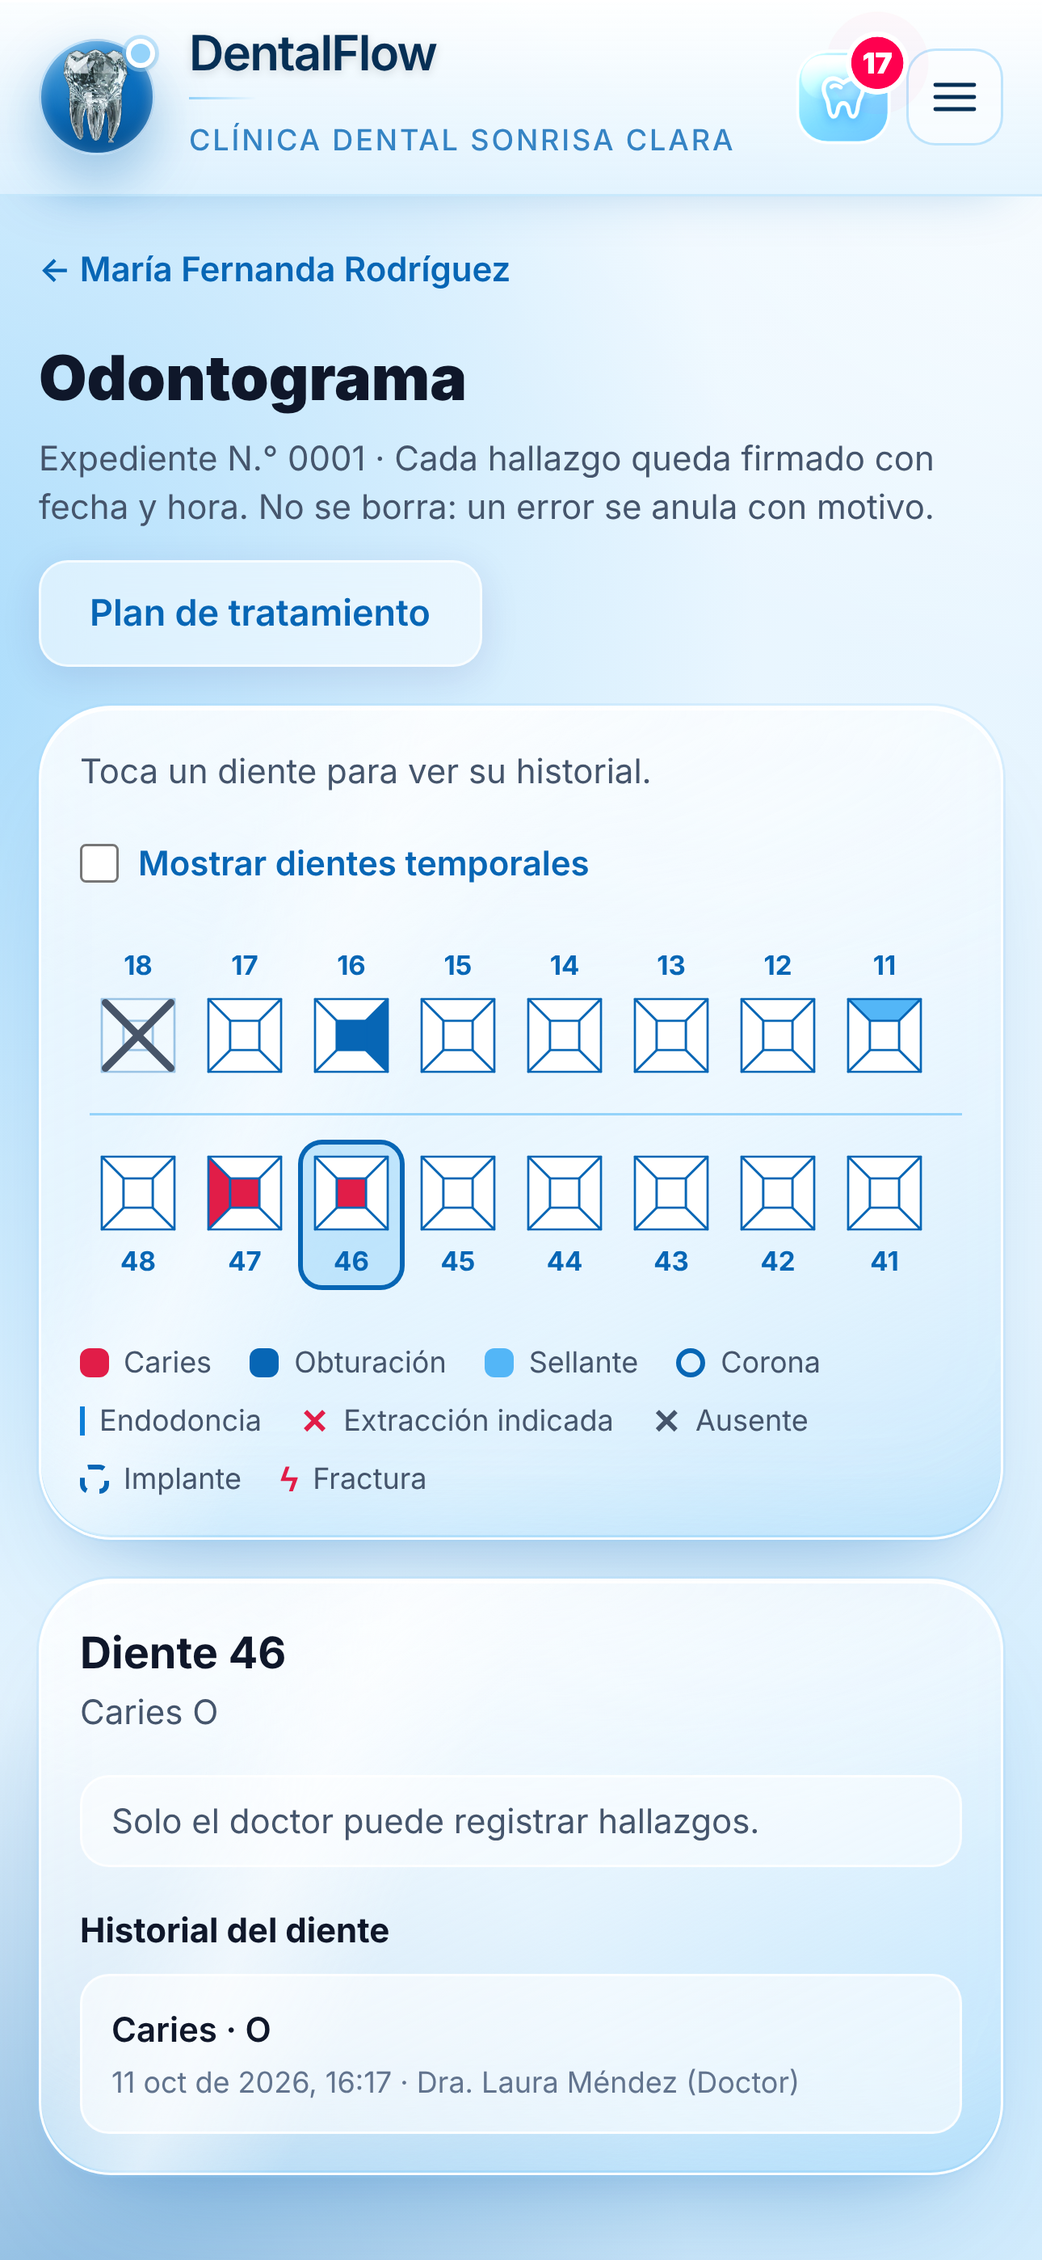
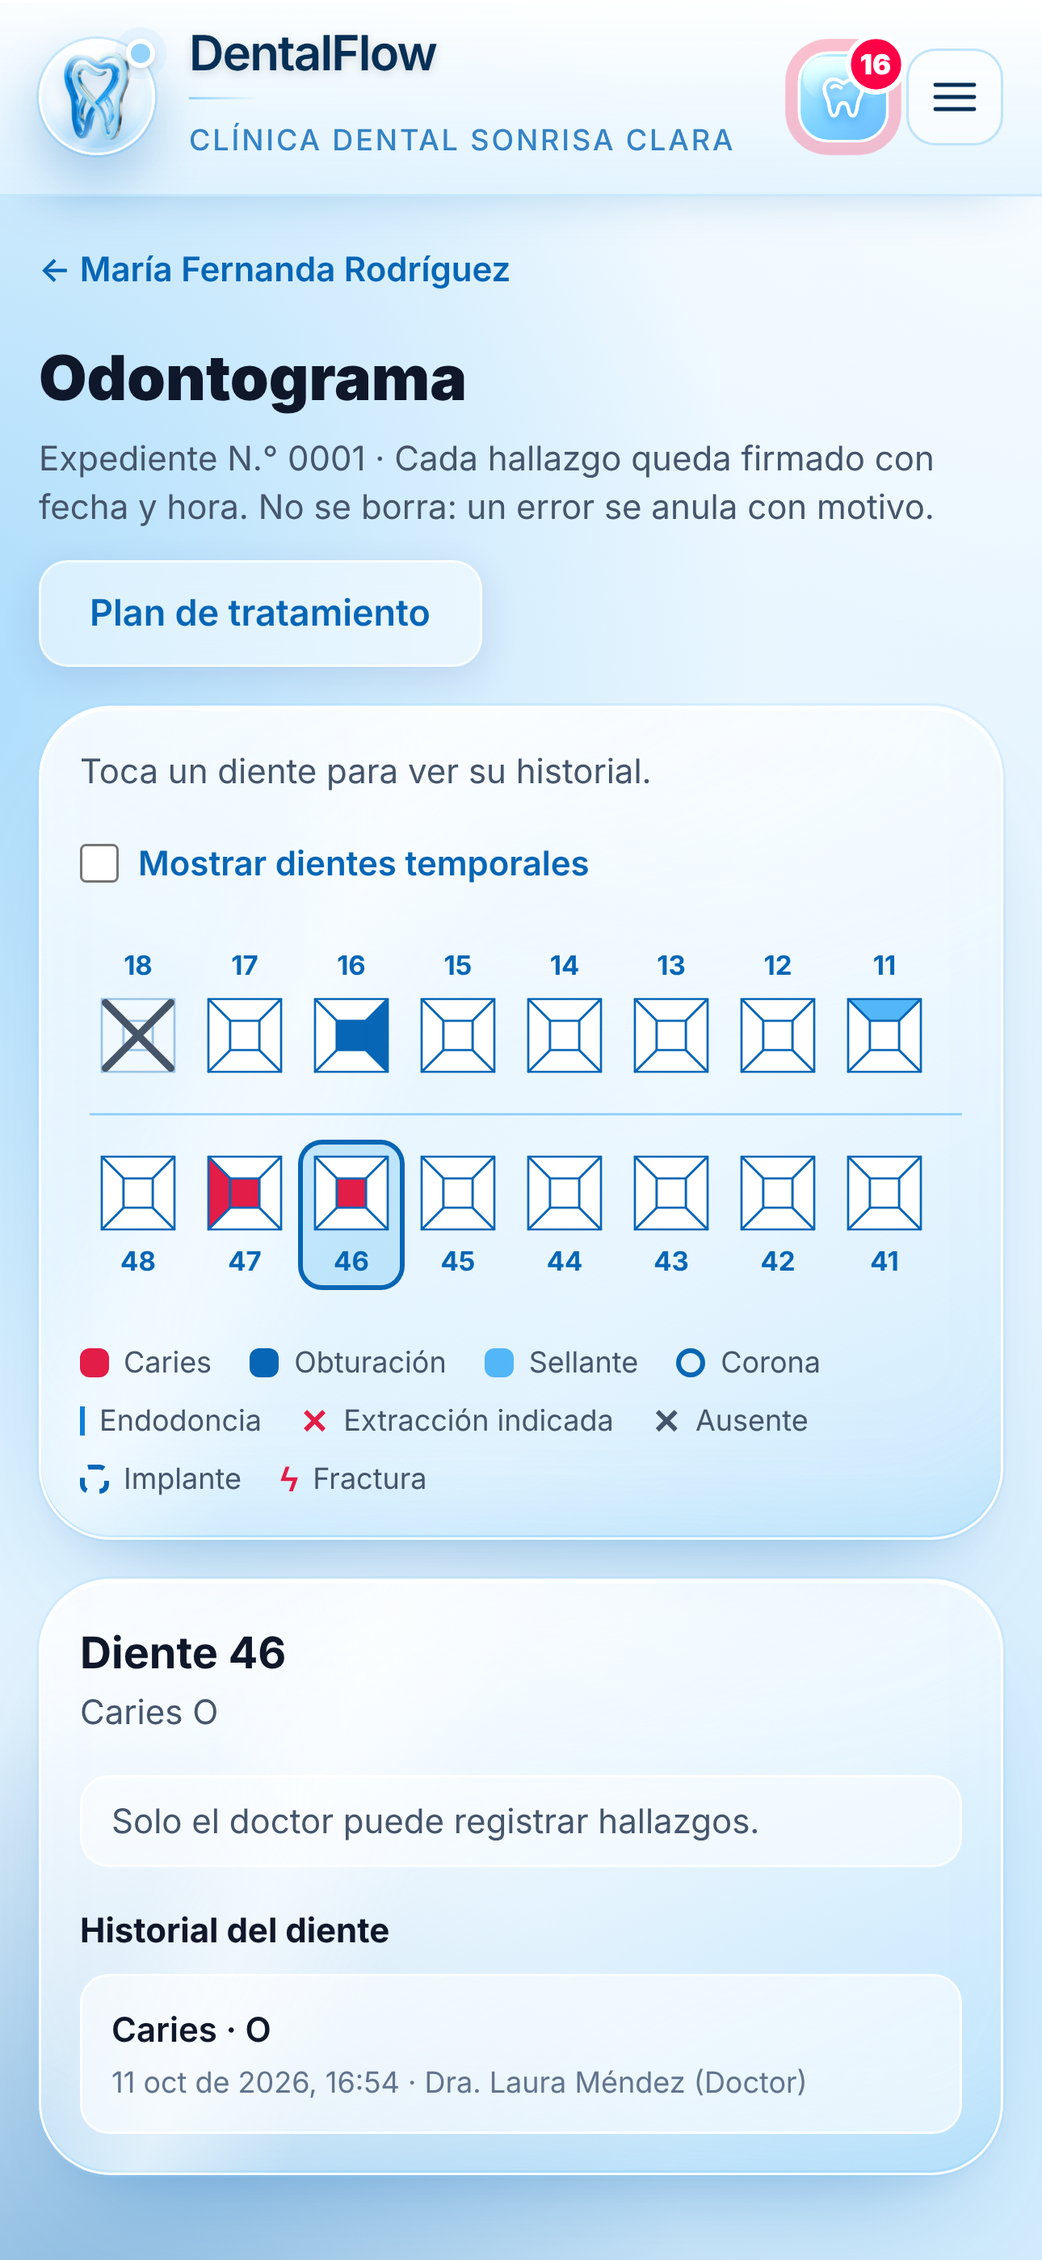
Marca: ícono de cristal en la barra lateral y nombre DentalFlow Clinical OS
- Barra lateral y login: el diente azul de cristal de la imagen de venta
  (dentalflow-mark-sky.png, 389×512, sin recomprimir) sobre un orbe de
  cristal blanco hecho en CSS (crystal-orb), nítido a cualquier tamaño.
  Sale el molar de diamante sobre orbe azul (dentalflow-molar-crystal.png).
- Nombre de marca: "Clinical OS" acompaña a DentalFlow en la barra
  lateral, el login y el título del sitio (decisión de Darys).
- Imagen de venta 4K rehecha con capturas nuevas (Supabase local, datos
  de demostración): base de cristal transparente con el nombre grabado,
  dos citas completadas y tres funciones de seguridad reales.
- seed.cjs pone los nombres de demostración; README explica el espejo de
  imágenes si Docker Hub limita las descargas.

Claude-Session: https://claude.ai/code/session_01CmWgbumtTca9EihXzwD1qY

diff --git a/docs/marketing/hero/hero.html b/docs/marketing/hero/hero.html
@@ -5,6 +5,8 @@
 @font-face{font-family:Inter;src:url(file:///usr/share/fonts/opentype/inter/Inter-ExtraBold.otf);font-weight:800}
 html,body{margin:0;width:1920px;height:1080px;overflow:hidden;font-family:Inter;background:linear-gradient(180deg,#F7FCFF 0%,#EAF6FF 55%,#DCEFFD 100%)}
 .a{position:absolute}
+.chip{display:inline-flex;align-items:center;gap:7px;padding:7px 13px;border-radius:999px;background:rgba(255,255,255,.62);border:1px solid rgba(14,155,243,.25);box-shadow:inset 0 1px 0 #fff,0 4px 12px rgba(7,102,181,.08);font-size:13.5px;font-weight:600;color:#0766B5}
+.chip svg{width:15px;height:15px;fill:none;stroke:currentColor;stroke-width:2.2;stroke-linecap:round;stroke-linejoin:round}
 /* teléfono: 276×580, marco de titanio claro, bisel negro fino y pantalla a ras */
 .ph{position:absolute;width:276px;height:580px}
 .ph .btn{position:absolute;width:4px;border-radius:2px;background:linear-gradient(90deg,#8193a6,#e6edf4 45%,#a7b6c6)}
@@ -33,13 +35,15 @@ html,body{margin:0;width:1920px;height:1080px;overflow:hidden;font-family:Inter;
  <defs>
   <linearGradient id="lid" x1="0" y1="0" x2="0" y2="1"><stop offset="0" stop-color="#1d2a38"/><stop offset="1" stop-color="#0f1823"/></linearGradient>
   <linearGradient id="base" x1="0" y1="0" x2="0" y2="1"><stop offset="0" stop-color="#eef3f8"/><stop offset=".45" stop-color="#cfd9e3"/><stop offset="1" stop-color="#9eacba"/></linearGradient>
-  <linearGradient id="ped" x1="0" y1="0" x2="1" y2="0"><stop offset="0" stop-color="rgba(255,255,255,.55)"/><stop offset=".25" stop-color="rgba(255,255,255,.95)"/><stop offset=".6" stop-color="rgba(224,242,254,.85)"/><stop offset="1" stop-color="rgba(149,211,250,.75)"/></linearGradient>
-  <radialGradient id="pedtop" cx=".5" cy=".5" r=".5"><stop offset="0" stop-color="#fff"/><stop offset=".7" stop-color="#E0F2FE"/><stop offset="1" stop-color="#95D3FA"/></radialGradient>
+  <linearGradient id="glassSide" x1="0" y1="0" x2="1" y2="0"><stop offset="0" stop-color="#fff" stop-opacity=".85"/><stop offset=".07" stop-color="#fff" stop-opacity=".34"/><stop offset=".22" stop-color="#E0F2FE" stop-opacity=".12"/><stop offset=".55" stop-color="#fff" stop-opacity=".06"/><stop offset=".8" stop-color="#95D3FA" stop-opacity=".2"/><stop offset=".95" stop-color="#53B6F7" stop-opacity=".42"/><stop offset="1" stop-color="#fff" stop-opacity=".8"/></linearGradient>
+  <linearGradient id="glassTop" x1="0" y1="0" x2="1" y2="1"><stop offset="0" stop-color="#fff" stop-opacity=".9"/><stop offset=".5" stop-color="#F0F9FF" stop-opacity=".45"/><stop offset="1" stop-color="#95D3FA" stop-opacity=".5"/></linearGradient>
+  <radialGradient id="caustic" cx=".5" cy=".5" r=".5"><stop offset="0" stop-color="#53B6F7" stop-opacity=".4"/><stop offset=".6" stop-color="#95D3FA" stop-opacity=".18"/><stop offset="1" stop-color="#95D3FA" stop-opacity="0"/></radialGradient>
+  <filter id="soft" x="-10%" y="-300%" width="120%" height="700%"><feGaussianBlur stdDeviation="2"/></filter>
   <filter id="sh" x="-20%" y="-50%" width="140%" height="200%"><feGaussianBlur stdDeviation="14"/></filter>
  </defs>
  <!-- sombras de contacto -->
  <ellipse cx="640" cy="888" rx="620" ry="14" fill="rgba(6,47,85,.28)" filter="url(#sh)"/>
- <ellipse cx="1640" cy="902" rx="185" ry="12" fill="rgba(6,47,85,.2)" filter="url(#sh)"/>
+ <ellipse cx="1640" cy="904" rx="180" ry="10" fill="rgba(6,47,85,.1)" filter="url(#sh)"/>
  <!-- laptop: pantalla 120,190 1040x650 -->
  <rect x="100" y="170" width="1080" height="690" rx="22" fill="url(#lid)"/>
  <rect x="101" y="171" width="1078" height="688" rx="21" fill="none" stroke="rgba(255,255,255,.18)" stroke-width="2"/>
@@ -48,11 +52,21 @@ html,body{margin:0;width:1920px;height:1080px;overflow:hidden;font-family:Inter;
  <rect x="30" y="858" width="1220" height="3" fill="rgba(255,255,255,.95)"/>
  <path d="M550 858 H730 Q728 868 714 868 H566 Q552 868 550 858Z" fill="rgba(110,128,146,.55)"/>
  <rect x="100" y="854" width="1080" height="5" fill="#0b131c"/>
- <!-- pedestal -->
- <path d="M1470 790 V878 Q1640 906 1810 878 V790 Z" fill="url(#ped)" stroke="rgba(255,255,255,.9)" stroke-width="1.5"/>
- <ellipse cx="1640" cy="790" rx="170" ry="26" fill="url(#pedtop)" stroke="#fff" stroke-width="2"/>
- <ellipse cx="1640" cy="790" rx="120" ry="15" fill="rgba(14,155,243,.12)"/>
- <rect x="1480" y="805" width="6" height="64" rx="3" fill="rgba(255,255,255,.9)"/>
+ <!-- base de cristal transparente: se ve la mesa a través, cantos brillantes y luz celeste refractada en el piso -->
+ <ellipse cx="1640" cy="904" rx="220" ry="18" fill="url(#caustic)"/>
+ <path d="M1470 790 V880 A170 24 0 0 0 1810 880 V790 Z" fill="url(#glassSide)"/>
+ <path d="M1470 880 A170 24 0 0 1 1810 880" fill="none" stroke="rgba(255,255,255,.6)" stroke-width="1"/>
+ <path d="M1470 880 A170 24 0 0 0 1810 880" fill="none" stroke="#fff" stroke-width="4" filter="url(#soft)"/>
+ <path d="M1470 880 A170 24 0 0 0 1810 880" fill="none" stroke="#fff" stroke-width="1.5"/>
+ <path d="M1472 884 A168 23 0 0 0 1808 884" fill="none" stroke="rgba(83,182,247,.5)" stroke-width="1"/>
+ <line x1="1470" y1="790" x2="1470" y2="880" stroke="#fff" stroke-width="1.5"/>
+ <line x1="1810" y1="790" x2="1810" y2="880" stroke="rgba(255,255,255,.85)" stroke-width="1.5"/>
+ <ellipse cx="1640" cy="790" rx="170" ry="24" fill="url(#glassTop)" stroke="#fff" stroke-width="2"/>
+ <ellipse cx="1640" cy="792" rx="157" ry="19" fill="none" stroke="rgba(149,211,250,.7)" stroke-width="1"/>
+ <ellipse cx="1640" cy="789" rx="92" ry="10" fill="rgba(14,155,243,.14)"/>
+ <rect x="1481" y="806" width="5" height="62" rx="2.5" fill="rgba(255,255,255,.95)"/>
+ <rect x="1494" y="814" width="2" height="46" rx="1" fill="rgba(255,255,255,.7)"/>
+ <rect x="1792" y="808" width="3" height="56" rx="1.5" fill="rgba(83,182,247,.5)"/>
 </svg>
 <!-- pantalla de la laptop -->
 <img class="a" src="hero_desktop.png" style="left:120px;top:190px;width:1040px;height:650px">
@@ -75,12 +89,22 @@ html,body{margin:0;width:1920px;height:1080px;overflow:hidden;font-family:Inter;
 <!-- diente (tamaño nativo) -->
 <div class="a" style="left:1564px;top:774px;width:152px;height:22px;border-radius:50%;background:radial-gradient(closest-side,rgba(14,155,243,.35),transparent)"></div>
 <img class="a" src="../../../public/dentalflow-mark-sky.png" style="left:1543px;top:500px;width:194px;height:255px;filter:drop-shadow(0 16px 22px rgba(14,155,243,.28))">
-<div class="a" style="left:1470px;top:820px;width:340px;text-align:center;font-weight:800;font-size:34px;letter-spacing:.5px;color:#0766B5;text-shadow:0 1px 0 rgba(255,255,255,.9),0 -1px 0 rgba(6,47,85,.25)">DentalFlow</div>
+<!-- nombre grabado en el cristal -->
+<div class="a" style="left:1470px;top:827px;width:340px;text-align:center">
+ <div style="font-weight:800;font-size:32px;line-height:1;letter-spacing:-.2px;color:#0766B5;text-shadow:0 1px 0 rgba(255,255,255,.95),0 0 14px rgba(255,255,255,.8)">DentalFlow</div>
+ <div style="margin-top:9px;padding-left:6px;font-weight:600;font-size:11px;line-height:1;letter-spacing:6px;color:#0D7FD8">CLINICAL OS</div>
+</div>
 <!-- texto -->
-<div class="a" style="left:1330px;top:120px;width:540px">
+<div class="a" style="left:1330px;top:104px;width:540px">
  <div style="font-size:17px;font-weight:700;letter-spacing:3.5px;color:#0D7FD8">SOFTWARE PARA CLÍNICAS DENTALES</div>
  <div style="margin-top:14px;font-size:52px;line-height:1.06;font-weight:800;color:#062F55;letter-spacing:-.5px">Su clínica completa, en un solo lugar.</div>
  <div style="margin-top:18px;font-size:22px;line-height:1.4;color:#2b5576">Agenda, sala de espera, odontograma, planes de tratamiento y facturación. En computadora y celular.</div>
+ <!-- funciones de seguridad reales (CLAUDE.md): registro firmado y auditado, MFA, respaldo nocturno cifrado -->
+ <div style="margin-top:22px;display:flex;flex-wrap:wrap;gap:10px">
+  <span class="chip"><svg viewBox="0 0 24 24"><path d="M12 3l7 3v6c0 4.5-3 7.5-7 9-4-1.5-7-4.5-7-9V6z"/><path d="M9 12l2 2 4-4"/></svg>Registro clínico firmado y auditado</span>
+  <span class="chip"><svg viewBox="0 0 24 24"><rect x="5" y="11" width="14" height="9" rx="2"/><path d="M8 11V8a4 4 0 0 1 8 0v3"/></svg>Verificación en dos pasos</span>
+  <span class="chip"><svg viewBox="0 0 24 24"><ellipse cx="12" cy="6" rx="7" ry="3"/><path d="M5 6v12c0 1.7 3.1 3 7 3s7-1.3 7-3V6"/><path d="M5 12c0 1.7 3.1 3 7 3s7-1.3 7-3"/></svg>Respaldo cifrado cada noche</span>
+ </div>
 </div>
 <div class="a" style="left:40px;top:1030px;padding:6px 14px;border-radius:999px;background:rgba(255,255,255,.7);border:1px solid rgba(14,155,243,.3);color:#0766B5;font-weight:600;font-size:13px">● Pantallas con datos de demostración</div>
 <script>

diff --git a/src/app/login/page.tsx b/src/app/login/page.tsx
@@ -9,26 +9,31 @@ export default function LoginPage() {
     <main className="flex flex-1 items-center justify-center px-4 py-12">
       <div className="glass-card w-full max-w-sm p-5 sm:p-8">
         <div className="mb-8 text-center">
-          <div className="relative mx-auto mb-4 flex h-[240px] w-[240px] items-center justify-center">
+          <div className="relative mx-auto mb-6 flex h-[200px] w-[200px] items-center justify-center">
             <div
               aria-hidden="true"
-              className="absolute inset-0 rounded-full blur-xl"
+              className="absolute -inset-6 rounded-full blur-xl"
               style={{
                 background:
                   "radial-gradient(circle, rgba(149,211,250,0.6) 0%, rgba(149,211,250,0) 70%)",
               }}
             />
-            <Image
-              src="/dentalflow-app-icon-3d-sky.png"
-              alt="DentalFlow"
-              width={640}
-              height={640}
-              priority
-              className="relative h-[240px] w-[240px] drop-shadow-[0_18px_22px_rgba(7,102,181,0.22)]"
-            />
+            {/* Mismo ícono que la barra lateral: diente de cristal sobre orbe de cristal blanco. */}
+            <span className="crystal-orb flex h-full w-full items-center justify-center">
+              <Image
+                src="/dentalflow-mark-sky.png"
+                alt="DentalFlow"
+                width={389}
+                height={512}
+                priority
+                unoptimized
+                className="relative h-[80%] w-auto drop-shadow-[0_8px_12px_rgba(7,102,181,0.28)]"
+              />
+            </span>
           </div>
           <h1 className="text-3xl font-black tracking-tight text-[#0766B5]">DentalFlow</h1>
-          <p className="mt-1 text-sm text-slate-500">
+          <p className="mt-1.5 text-[11px] font-semibold tracking-[0.34em] text-[#0766B5]">CLINICAL OS</p>
+          <p className="mt-3 text-sm text-slate-500">
             Inicia sesión para continuar
           </p>
           <p className="mt-4 inline-flex items-center gap-1.5 rounded-full border border-[#95D3FA]/60 bg-[#95D3FA]/15 px-3 py-1 text-xs font-semibold text-[#0766B5]">

diff --git a/src/app/(app)/sidebar.tsx b/src/app/(app)/sidebar.tsx
@@ -384,17 +384,17 @@ function Brand({ compact = false, clinicName, onNavigate }: { compact?: boolean;
           compact ? "h-12 w-12" : "h-20 w-20"
         }`}
       >
-        {/* Ícono: orbe de vidrio azul profundo con el molar de cristal (quieto).
+        {/* Ícono: diente azul de cristal sobre orbe de cristal blanco (quieto).
             unoptimized: se sirve el PNG original, sin recompresión, para no perder nitidez. */}
-        <span className="molar-orb flex h-full w-full items-center justify-center">
+        <span className="crystal-orb flex h-full w-full items-center justify-center">
           <Image
-            src="/dentalflow-molar-crystal.png"
+            src="/dentalflow-mark-sky.png"
             alt="DentalFlow"
-            width={279}
-            height={398}
+            width={389}
+            height={512}
             priority
             unoptimized
-            className="h-[84%] w-auto [filter:drop-shadow(0_4px_6px_rgba(6,47,85,0.45))]"
+            className="relative h-[80%] w-auto [filter:drop-shadow(0_3px_4px_rgba(7,102,181,0.28))]"
           />
         </span>
 
@@ -408,6 +408,11 @@ function Brand({ compact = false, clinicName, onNavigate }: { compact?: boolean;
         <span className="text-[20px] font-semibold leading-none tracking-[-0.03em] text-[#062F55] drop-shadow-sm">
           DentalFlow
         </span>
+        {!compact && (
+          <span className="mt-1.5 text-[9.5px] font-semibold leading-none tracking-[0.34em] text-[#0766B5]">
+            CLINICAL OS
+          </span>
+        )}
         {clinicName && (
           <>
             <span aria-hidden="true" className="my-2 block h-px w-7 bg-gradient-to-r from-[#95D3FA] to-transparent" />

diff --git a/src/app/globals.css b/src/app/globals.css
@@ -356,16 +356,32 @@ body {
   }
 }
 
-/* Ícono principal: orbe de vidrio azul profundo (de la paleta, sin azul marino) con el
-   molar de cristal quieto; el fondo oscuro hace resaltar las facetas claras. */
-.molar-orb {
+/* Ícono principal: diente azul de cristal (el de la imagen de venta) sobre un orbe de
+   cristal blanco, con brillo arriba y reflejo celeste abajo. Todo en CSS, nítido a
+   cualquier tamaño; el diente es un PNG de 389×512 que se sirve sin recomprimir. */
+.crystal-orb {
   position: relative;
   overflow: hidden;
   border-radius: 9999px;
-  background: radial-gradient(circle at 32% 24%, #53b6f7 0%, #0d7fd8 45%, #0766b5 100%);
-  border: 1px solid rgba(255, 255, 255, 0.7);
+  background:
+    radial-gradient(120% 120% at 50% 115%, rgb(149 211 250 / 0.55) 0%, transparent 55%),
+    radial-gradient(circle at 32% 24%, #fff 0%, rgb(255 255 255 / 0.96) 40%, rgb(240 249 255 / 0.9) 70%, rgb(224 242 254 / 0.88) 100%);
+  border: 1px solid rgb(255 255 255 / 0.95);
   box-shadow:
-    inset 0 2px 6px rgba(255, 255, 255, 0.45),
-    inset 0 -8px 14px rgba(6, 47, 85, 0.35),
-    0 10px 22px rgba(7, 102, 181, 0.35);
+    inset 0 1px 1px #fff,
+    inset 0 -5px 10px rgb(14 155 243 / 0.18),
+    inset 0 0 0 2px rgb(255 255 255 / 0.5),
+    0 0 0 1px rgb(14 155 243 / 0.16),
+    0 10px 22px rgb(7 102 181 / 0.3);
+}
+
+.crystal-orb::after {
+  content: "";
+  position: absolute;
+  inset: 0;
+  border-radius: inherit;
+  pointer-events: none;
+  background:
+    radial-gradient(60% 34% at 40% 10%, rgb(255 255 255 / 0.9), transparent 70%),
+    linear-gradient(128deg, transparent 52%, rgb(255 255 255 / 0.38) 60%, transparent 68%);
 }

diff --git a/src/app/layout.tsx b/src/app/layout.tsx
@@ -8,7 +8,7 @@ const inter = Inter({
 });
 
 export const metadata: Metadata = {
-  title: "DentalFlow",
+  title: "DentalFlow Clinical OS",
   description: "Sistema de gestión para clínicas dentales",
 };
 

diff --git a/docs/marketing/hero/README.md b/docs/marketing/hero/README.md
@@ -1,8 +1,10 @@
 # Imagen principal de DentalFlow (hero)
 
-`DentalFlow-hero-4K.png` (3840×2160): laptop con el Panel, teléfono con el odontograma móvil y
+`DentalFlow-hero-4K.png` (3840×2160): laptop con el Panel, teléfono delante con el odontograma móvil y
 el diente de cristal (`public/dentalflow-mark-sky.png`, a su tamaño nativo para que no pierda nitidez)
-sobre una mesa de cristal. Las pantallas tienen **datos de demostración** de Supabase local
+sobre una base de cristal transparente con "DentalFlow · Clinical OS" grabado, todo sobre una mesa de vidrio.
+Los tres avisos de seguridad (registro firmado y auditado, verificación en dos pasos, respaldo cifrado
+cada noche) son funciones reales; no agregar certificaciones ni métricas. Las pantallas tienen **datos de demostración** de Supabase local
 (nunca de producción); por eso la imagen lleva el aviso "Pantallas con datos de demostración".
 No decir "hecho para República Dominicana" (objetivo global, ver CLAUDE.md).
 
@@ -14,6 +16,9 @@ No decir "hecho para República Dominicana" (objetivo global, ver CLAUDE.md).
 ## Rehacer las capturas de la app (solo Supabase local)
 1. `npm run test:e2e:setup`, luego `set -a; . ./.env.e2e; set +a`.
 2. Datos de demostración: `NODE_PATH=$PWD/node_modules node docs/marketing/hero/seed.cjs docs/marketing/hero/mfa.json docs/marketing/hero/ids.json`
-   (crea pacientes, citas, odontograma, plan y cobros ficticios; activa TOTP de admin y doctor).
+   (pone los nombres de demostración —Carlos Rosario, Dra. Laura Méndez, Clínica Dental Sonrisa Clara—, crea
+   pacientes, citas con dos ya completadas, sala de espera, odontograma, plan y cobros ficticios; activa TOTP de admin y doctor).
+   Si Docker Hub responde 429 al descargar las imágenes de Supabase, bajarlas de `mirror.gcr.io` y etiquetarlas
+   con el nombre original (p. ej. `docker pull mirror.gcr.io/library/kong:2.8.1 && docker tag mirror.gcr.io/library/kong:2.8.1 kong:2.8.1`).
 3. `npm run build && npx next start -p 3100`.
 4. `NODE_PATH=$PWD/node_modules node docs/marketing/hero/hero_shots.cjs` → `hero_desktop.png` (2880×1800) y `hero_mobile.png` (1290×2796).

diff --git a/CLAUDE.md b/CLAUDE.md
@@ -37,7 +37,8 @@ Sistema de gestión para clínicas dentales. Stack: Next.js (App Router, TypeScr
 - Paleta azul cielo vivo: principal `#0E9BF3`, oscuro `#0766B5` (texto sobre claro, botones, enfoque), medio `#0D7FD8`, brillo `#53B6F7`, claro `#95D3FA`; texto sobre el azul de la barra `#062F55`. Toda la app usa esta paleta (botones, enlaces y acentos); verde solo con significado (estado "completada", diente sano, WhatsApp).
 - Barra lateral: clase `sidebar-crystal` en `src/app/globals.css`. Vidrio esmerilado con el azul vivo arriba que **se desvanece hasta quedar transparente abajo**; menú y logo con texto azul oscuro; la zona inferior (idioma y perfil) en vidrio blanco. En el celular, la barra superior es `topbar-crystal` y el menú abierto `crystal-overlay` (mismo degradado, opaco).
 - Botón de notificaciones: clase `bell-glass` (cristal azul translúcido con borde definido y reflejo).
-- Ícono principal: diente de cristal en azul cielo (`public/dentalflow-app-icon-sky.png`, `dentalflow-app-icon-3d-sky.png` y `dentalflow-mark-sky.png`). Si se recolorea una imagen, cambiarle el nombre para no chocar con la caché de imágenes de Next.
+- Ícono principal (decisión de Darys, 2026-10-11): el diente azul de cristal de la imagen de venta (`public/dentalflow-mark-sky.png`, 389×512, servido sin recomprimir) sobre el orbe de cristal blanco `crystal-orb` (CSS en `globals.css`, nítido a cualquier tamaño). Se usa en la barra lateral y en el login. Si se recolorea una imagen, cambiarle el nombre para no chocar con la caché de imágenes de Next.
+- Nombre de marca: **DentalFlow Clinical OS** (decisión de Darys, 2026-10-11). "Clinical OS" acompaña a "DentalFlow" en la barra lateral (no en la barra superior del celular), el login, el título del sitio y la imagen de venta; los títulos de cada página siguen con "DentalFlow". No se traduce.
 - Tipografía: Inter.
 - Botones estilo vidrio (glassmorphism).
 - El color **teal se reserva solo para funciones de IA** y debe verse claramente más verde que el azul de la app.
